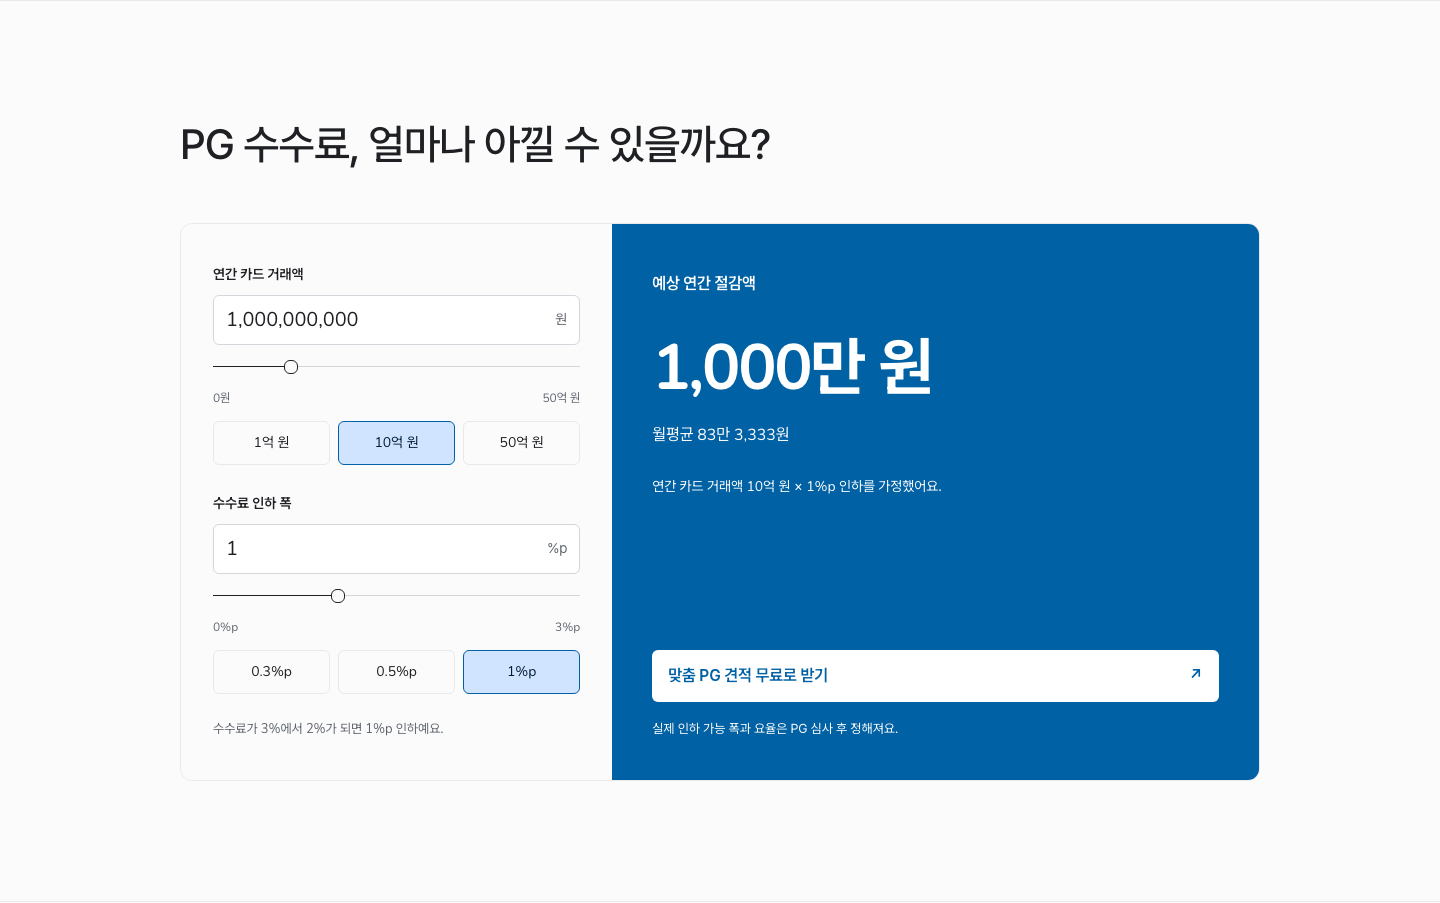
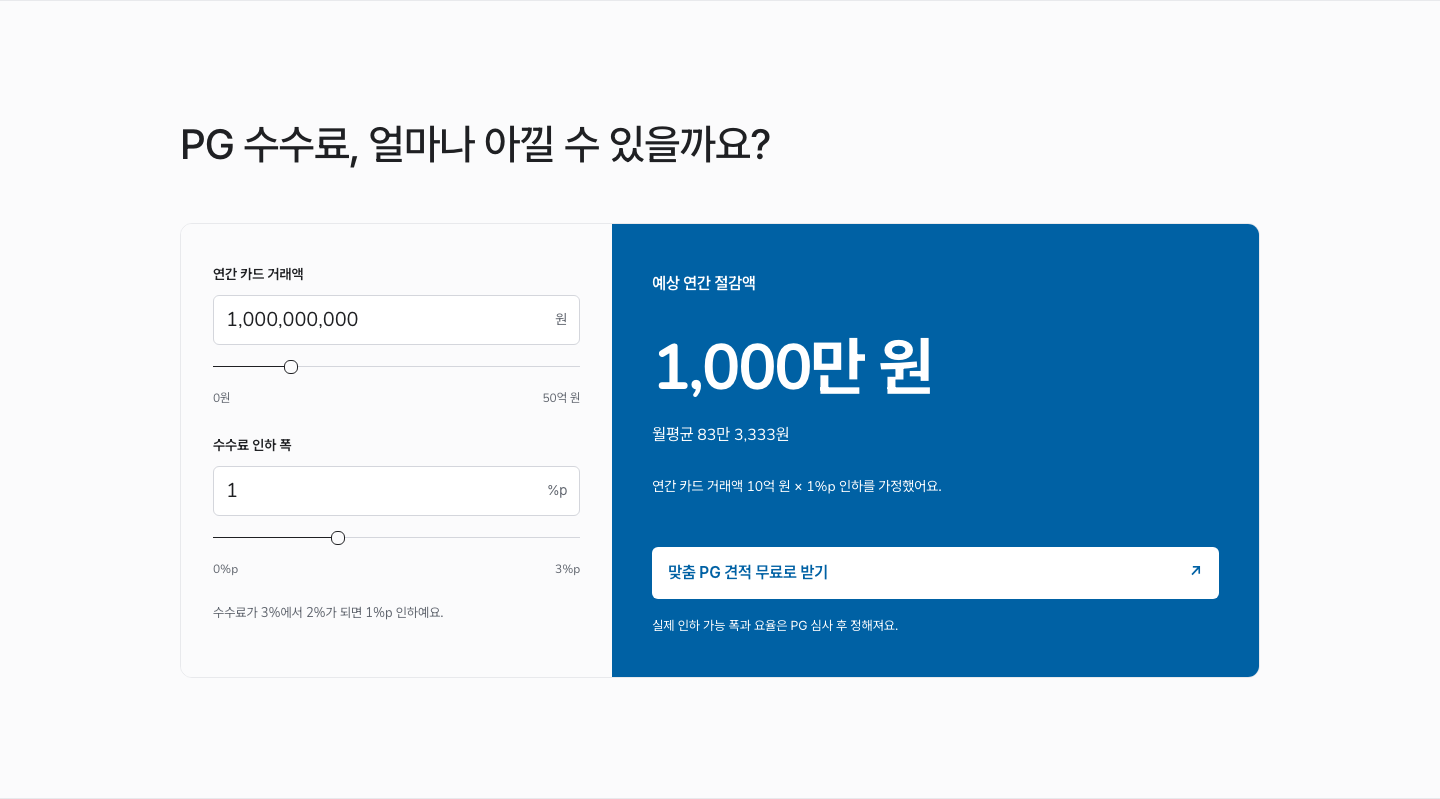
refactor: remove landing calculator quick-select buttons

diff --git a/components/landing/SavingsCalculator.tsx b/components/landing/SavingsCalculator.tsx
@@ -191,18 +191,6 @@ export function SavingsCalculator() {
           const label =
             field === "volume" ? "연간 카드 거래액" : "수수료 인하 폭";
           const numeric = Number(values[field]);
-          const presets =
-            field === "volume"
-              ? [
-                  ["100000000", "1억 원"],
-                  ["1000000000", "10억 원"],
-                  ["5000000000", "50억 원"],
-                ]
-              : [
-                  ["0.3", "0.3%p"],
-                  ["0.5", "0.5%p"],
-                  ["1", "1%p"],
-                ];
           return (
             <div key={field} className={styles.field}>
               <label htmlFor={`landing-savings-${field}`}>{label}</label>
@@ -275,20 +263,7 @@ export function SavingsCalculator() {
                     : `${bounds.reduction}%p`}
                 </span>
               </div>
-              <div className={styles.presets}>
-                {presets.map(([value, title]) => (
-                  <button
-                    key={value}
-                    type="button"
-                    aria-pressed={
-                      numeric === Number(value) && values[field] !== ""
-                    }
-                    onClick={() => change({ ...values, [field]: value })}
-                  >
-                    <span className="md-numeric">{title}</span>
-                  </button>
-                ))}
-              </div>
+
             </div>
           );
         })}

diff --git a/components/landing/__tests__/SavingsCalculator.test.tsx b/components/landing/__tests__/SavingsCalculator.test.tsx
@@ -62,8 +62,9 @@ const enter = (label: string, value: string) =>
     target: { value },
   });
 const amount = () => screen.getByLabelText("예상 연간 절감액");
-it("synchronizes presets, direct inputs and keyboard without automatic rate correction", () => {
+it("offers only direct inputs and sliders, synchronized without automatic rate correction", () => {
   render(<SavingsCalculator />);
+  expect(screen.queryAllByRole("button")).toHaveLength(0);
   enter("연간 카드 거래액", "6000000000");
   enter("수수료 인하 폭", "4.25");
   expect(amount()).toHaveTextContent("2억 5,500만 원");
@@ -73,8 +74,8 @@ it("synchronizes presets, direct inputs and keyboard without automatic rate corr
   expect(
     screen.getByRole("slider", { name: "연간 카드 거래액" }),
   ).toHaveAttribute("aria-valuemax", "6000000000");
-  fireEvent.click(screen.getByRole("button", { name: "1억 원" }));
-  fireEvent.click(screen.getByRole("button", { name: "0.3%p" }));
+  enter("연간 카드 거래액", "100000000");
+  enter("수수료 인하 폭", "0.3");
   expect(amount()).toHaveTextContent("30만 원");
   fireEvent.keyDown(screen.getByRole("slider", { name: "수수료 인하 폭" }), {
     key: "Home",

diff --git a/e2e/landing-savings.spec.ts b/e2e/landing-savings.spec.ts
@@ -37,8 +37,9 @@ test('landing calculator reflows and keeps input, pointer and keyboard results s
   }
   await page.evaluate(() => { document.documentElement.style.zoom = '1'; });
   await page.setViewportSize({ width: 1440, height: 1000 });
-  await calculator.getByRole('button', { name: '1억 원', exact: true }).click();
-  await calculator.getByRole('button', { name: '0.5%p', exact: true }).click();
+  await expect(calculator.getByRole('button')).toHaveCount(0);
+  await calculator.getByRole('textbox', { name: '연간 카드 거래액' }).fill('100000000');
+  await calculator.getByRole('textbox', { name: '수수료 인하 폭' }).fill('0.5');
   await expect(annual).toHaveText('50만 원');
   const rate = calculator.getByRole('slider', { name: '수수료 인하 폭' });
   await rate.focus(); await page.keyboard.press('Home');

diff --git a/components/landing/savings-calculator.module.css b/components/landing/savings-calculator.module.css
@@ -78,30 +78,6 @@
   font-size: 12px;
   color: var(--md-sys-color-on-surface-variant);
 }
-.presets {
-  display: flex;
-  gap: 8px;
-  margin-top: 14px;
-  flex-wrap: wrap;
-}
-.presets button {
-  flex: 1;
-  min-width: 72px;
-  min-height: 44px;
-  padding: 8px;
-  border: 1px solid var(--md-sys-color-outline-variant);
-  border-radius: 6px;
-  font-size: 14px;
-}
-.presets button:hover {
-  background: var(--md-sys-color-surface-container);
-}
-.presets button[aria-pressed="true"] {
-  background: var(--md-sys-color-primary-container);
-  color: var(--md-sys-color-on-primary-container);
-  border-color: var(--md-sys-color-primary);
-}
-.presets button:focus-visible,
 .cta:focus-visible {
   outline: 2px solid var(--md-sys-color-primary);
   outline-offset: 3px;

diff --git a/SCREEN_DESIGN.md b/SCREEN_DESIGN.md
@@ -16,7 +16,7 @@
 **확정 결정 (v0 제품 정의 — 본 절이 캐노니컬 기준)**
 - **갱신 계약의 기존 PG (2026-10-16)**: 실제 회원·공개 작성에서 계약 유형 바로 다음에 갱신 전용 필수 질문 “현재 이용 중인 PG사는 어디인가요?”를 표시한다. 검색 목록 복수 선택과 회사명 직접 입력을 지원하며 계약서상 회사명을 안내한다. 공개 목록은 가입 화면의 주요 PG만, 회원 목록은 기존 활성 PG 목록을 사용한다. 신규로 전환하면 숨기고 발송·추천에서 제외하되 초안 답변은 보존한다. 새로고침·로그인 후 이어쓰기에도 유지하며 구버전 갱신 초안은 필수 질문으로 돌아간다. 완료 요약·최종 확인·구매사 요청 조건에만 표시하고 PG에는 제공하지 않는다. 변경 시 추천·선택을 초기화하고 이전 비동기 응답을 무시한다. 기존 이용 PG와 이전 상담 PG는 업종·기본·다음 추천 및 실제 접수에서 제외한다. 후보가 없으면 입력을 유지하고 운영팀 문의를 안내한다. 이미 발송된 요청은 소급 입력하지 않는다.
 - **랜딩 채팅 문의 (2026-10-12)**: FAQ 다음·최종 도입문의 CTA 앞에 독립된 `#consultation` 섹션을 둔다. PG 수수료 협의·가입 심사 질문과 채널톡 문의 버튼을 제공하며 모바일은 세로로 배치한다.
-- **랜딩 수수료 절감 계산기 (2026-10-19)**: `#calculator` 제목은 `PG 수수료, 얼마나 아낄 수 있을까요?`다. 1024px 이상은 입력 40%·브랜드 primary 결과 60%, 그 미만은 결과 → 입력 → CTA 순서다. 연간 절감액은 PC 최대 64px·모바일 40px, 월평균을 함께 표시한다. 연간 카드 거래액·수수료 인하 폭 직접 입력을 항상 노출하고 슬라이더와 동기화한다. 기본 10억 원·1%p, 빠른 선택은 1억·10억·50억 원과 0.3·0.5·1%p다. 슬라이더 범위·입력 검증·반올림·빈 값 규칙은 아래 공개 작성 완료 계산기와 동일하며 `lib/landing/savings.ts`의 정수 기반 순수 계산만 공유한다. 등급별 가정 요율·자동 보정·비용 비교 그래프·자동 입력 가이드 커서는 사용하지 않는다. 계산 가정은 현재 입력으로 표시한다. 최초 노출 시 700ms 카운트업을 한 번 실행하고 입력 시 취소한다. 조작 중 즉시 계산하며 포인터 종료·키보드 및 직접 입력 500ms 정지 후 양의 확정 절감액이 증가할 때만 180ms scale 강조를 실행한다. 모션 감소 설정에서는 즉시 최종값, 스크린리더에는 확정 결과만 안내한다. 결과 아래 `맞춤 PG 견적 무료로 받기`는 `QuoteStartLink`로 로그인별 작성 경로를 연다. 요율 설명과 PG 심사 안내를 제공하며 값은 컴포넌트 로컬 상태로만 관리한다.
+- **랜딩 수수료 절감 계산기 (2026-10-19)**: `#calculator` 제목은 `PG 수수료, 얼마나 아낄 수 있을까요?`다. 1024px 이상은 입력 40%·브랜드 primary 결과 60%, 그 미만은 결과 → 입력 → CTA 순서다. 연간 절감액은 PC 최대 64px·모바일 40px, 월평균을 함께 표시한다. 연간 카드 거래액·수수료 인하 폭 직접 입력을 항상 노출하고 슬라이더와 동기화한다. 기본 10억 원·1%p이며 별도 빠른 선택 버튼 없이 직접 입력과 슬라이더로 조절한다. 슬라이더 범위·입력 검증·반올림·빈 값 규칙은 아래 공개 작성 완료 계산기와 동일하며 `lib/landing/savings.ts`의 정수 기반 순수 계산만 공유한다. 등급별 가정 요율·자동 보정·비용 비교 그래프·자동 입력 가이드 커서는 사용하지 않는다. 계산 가정은 현재 입력으로 표시한다. 최초 노출 시 700ms 카운트업을 한 번 실행하고 입력 시 취소한다. 조작 중 즉시 계산하며 포인터 종료·키보드 및 직접 입력 500ms 정지 후 양의 확정 절감액이 증가할 때만 180ms scale 강조를 실행한다. 모션 감소 설정에서는 즉시 최종값, 스크린리더에는 확정 결과만 안내한다. 결과 아래 `맞춤 PG 견적 무료로 받기`는 `QuoteStartLink`로 로그인별 작성 경로를 연다. 요율 설명과 PG 심사 안내를 제공하며 값은 컴포넌트 로컬 상태로만 관리한다.
 - **공개 작성 완료 계산기 (확정 결정 2026-10-15)**: `/quote-start` 완료 영역은 제목 `PG 수수료, 얼마나 아낄 수 있을까요?` → 연간 절감 예상·절감액·월평균 → 계산 가정 → 슬라이더 → 요율 설명·심사 안내 → 로그인·가입 버튼 → 답변 요약 순서다. 브라우저 보관 안내 문구는 표시하지 않는다. 신규·갱신 모두 연간 카드 거래액 10억 원·수수료 인하 폭 1%p로 시작해 연간 1,000만 원·월평균 83만 3,333원을 표시한다. 거래액 슬라이더는 0~50억 원·1,000만 원 간격, 인하 폭은 0~3%p·0.1%p 간격이다. 오른쪽 현재 값을 클릭·키보드 활성화하면 박스형 직접 입력을 제공한다. 거래액은 음수 없는 원 단위 안전한 정수, 인하 폭은 0~100%p·소수 둘째 자리까지다. 직접 입력이 상한을 넘으면 슬라이더 상한과 끝 눈금을 확장하고 드래그 중에는 범위를 고정한다. 연간 절감액은 거래액×인하 폭÷100, 월평균은 이를 12로 나누어 각각 원 단위 반올림한다. 빈 값은 `—`, 0은 `0원`이다. `연간 거래액 10억 원 · 1%p 인하를 가정했어요.`는 현재 입력에 맞춰 갱신하며 PoC·평균·추천 수치로 표현하지 않는다. `수수료가 3%에서 2%가 되면 1%p 인하예요.`와 `실제 인하 가능 폭과 요율은 PG 심사 후 정해져요.`를 표시한다. 최초 노출 700ms 카운트업·1.5초 폭죽, 확정값 증가 시 600ms 작은 폭죽은 DESIGN.md §9의 계산기 예외를 따른다. 직접 입력·키보드는 500ms 정지 후, 드래그는 종료 시 확정하고 소형 폭죽 최소 간격은 2초다. 드래그 중에는 숫자만 즉시 갱신한다. 입력·이탈은 기존 연출을 취소하고 모션 감소 시 즉시 최종값을 표시하며 확정값만 라이브 리전으로 안내한다. 계산기 상태는 초안과 분리하여 답변 수정·복귀 시 유지하고 큰 연출은 반복하지 않는다. 44px 조작 영역·숫자 서체·primary 포커스를 사용하며 좁은 화면·확대에서도 잘리지 않도록 배치한다.
 - **로그인 전 견적 작성 (확정 결정 2026-10-11)**: 구매사 랜딩 비로그인 CTA → 홈페이지부터 기존 질문·신규/갱신 분기 → 첨부 원본 브라우저 저장 → 로그인/가입 → 이메일 인증·승인 → 초안 선택·복원 → 사업자 확인 → PG 추천 → 최종 요청. 로그인된 구매사 CTA는 기존 작성 화면을 연다. 로그인 전에는 사업자 확인을 요구하지 않는다. 가입 버튼을 누르면 답변·첨부 원본을 서버에 저장한 뒤 가입 화면을 연다. 실패 시 입력을 유지하고 실패한 파일은 가입 재시도 또는 내용 수정에서 제거할 수 있다. 가입과 초안 소유권·입점 심사 연결은 원자적으로 처리한다. 서버 미가입 초안은 마지막 저장 후 24시간, 계정 연결본은 요청 완료·직접 삭제·계정 탈퇴까지 보관한다(2026-10-16 결정). 승인 후 같은 계정·워크스페이스는 다른 기기에서도 이어 쓰며, 서버 초안·기존 회원 초안·다른 로컬 초안을 구분해 고른다. 같은 초안의 로컬 사본은 중복 표시하지 않고 서버 선택 후 정리한다. 최초 초안 선택 후 자동 복귀를 소비하고 홈에 이어쓰기 링크를 둔다. 수정은 revision을 확인해 서버에 저장하며 실패 시 재시도를 제공한다. 기존 브라우저 전용 초안은 24시간 로컬 정리를 유지한다. 세부 보관·배포 정책은 docs/GUEST_RFP_INTAKE.md를 따른다. 회원 초안과 공개 초안은 별도로 보존하고, 복원 시 계정·워크스페이스를 고정한다. 실패한 첨부는 재시도·제거하기 전까지 발송을 막는다. 삭제된 업종 등 필수 답변이 무효하면 해당 질문으로 돌아간다. 실제 요청은 자동 발송하지 않는다. 공개 작성은 1024px 이상에서 최대 1200px 안에 왼쪽 안내 280px과 오른쪽 질문 영역을 나란히 둔다. 왼쪽에는 제목 `우리 사업에 맞는 PG 견적을 받아요`와 설명 `사업 정보를 입력하면 업종에 맞는 PG사를 추천해요.`만 표시한다. 1024px 미만은 최대 608px·좌우 20px 여백의 한 열로 같은 제목·설명 다음에 질문을 둔다. 로그인·사업자 확인 설명, 요청 순서, 운영팀 전달·브라우저 보관 고지, 추가 설명·펼침 메뉴와 안내 구분선은 제거하고 다른 위치로 옮기지 않는다(2026-10-14 사용자 결정, 기존 고지 상시 노출 규칙 대체). 완료·계정 연결·오류도 같은 작업 영역에 표시한다. 공개 입력은 얇은 테두리·6px 모서리·최소 44px 높이로 통일하며 중복 가시 라벨과 완료 표시는 감추고 접근성 이름·도움말은 유지한다. 결제수단은 브랜드·이름·우측 체크, 계약 유형은 동일 크기 설명 카드로 표시한다. 업종 카테고리에는 이동 화살표를 붙이고 검색창 아래 현재 선택을 유지한다. 금액·기간은 숫자와 단위를 묶고 기간은 일·주·개월로 표시하되 저장 형식은 유지한다. 배송·서비스 기간과 갱신 정산주기 질문의 용어 설명(ⓘ)은 입력란 아래 별도 줄 없이 질문 제목 오른쪽에 두며, 제목 밖 형제 요소라 제목의 접근성 이름은 질문 문장 그대로다. ⓘ 는 제목 끝 줄의 세로 가운데에 두고 제목이 줄 끝까지 차도 혼자 다음 줄로 떨어지지 않으며, 레이아웃을 바꾸지 않는 44px 터치 영역을 갖는다(2026-10-19). 첨부는 종류·이름·크기·제거와 파일별 실패 안내·재시도를 제공하며 원본 유실 시 제거 후 재선택을 안내한다. 완료 화면은 홈페이지·업종·계약 유형 요약과 개별 수정을 제공한다. 개별 수정은 임시 store에서 진행하고 취소 시 원본을 유지한다. 수정 완료 시 전체 필수 검증·추가 필수 질문·저장 성공을 거친 뒤 실제 초안을 갱신하고 완료 요약으로 복귀하며 실패 시 편집값을 보존한다. 개별 수정은 완료 운영 이벤트를 재전송하지 않는다. 로그인·가입의 행동 위계와 나머지 답변의 전체 수정 흐름은 유지한다(2026-10-15 전체 UI 개선). 모바일 이동 버튼은 안전 영역을 확보한 하단 고정 바로 제공하고 건너뛰기는 그 위의 보조 행동이다. 500px 이하 높이의 작은 창에서는 이동 버튼을 일반 흐름으로 돌려 입력 공간을 확보한다. 데스크탑은 입력 아래 이전·건너뛰기·다음을 배치한다. 공개 작성의 운영 솔루션 선택지는 PC 3열·모바일 2열을 유지하고 `[로고] 서비스 이름 [체크]` 가로형으로 표시한다. 로고 영역은 32px, 이름은 16px, 카드 최소 높이는 PC 64px·모바일 56px, 모서리는 6px이다. 카페24·아임웹·메이크샵·고도몰은 공식 로컬 자산의 비율·색을 보존하고 자체 개발은 코드 아이콘, 기타는 더보기 아이콘을 쓴다. 자산 출처는 `public/images/solution-logos/SOURCES.md`에 기록하며 이름은 항상 표시한다. 선택 상태는 파란 테두리·옅은 배경·체크를 함께 쓰고 체크 공간을 항상 예약해 내용 위치를 유지한다. 키보드 포커스는 별도 링으로 표시한다. 진행 막대와 제목은 PC 32px·모바일 24px, 제목 영역과 답변은 20px, 데스크톱 답변과 이동 버튼은 32px 간격이다(2026-10-15 공개 작성 UI 개선). 회원·데모·튜토리얼은 기존 텍스트 선택지를 유지하고 선택·재클릭 해제·기타 입력·건너뛰기·복원 동작은 그대로다. 선택만으로 이동하지 않고 다음 버튼으로 진행한다. 떠 있는 채널톡 버튼은 감추고 상단 문의하기에서 상담을 연다(2026-10-14 승인 시안 반영). 1024px 미만 터치 영역은 최소 44px이다. 질문 위에는 영역·현재/전체 개수·진행 막대와 선택 Chip을 표시하고 신규 14문항·갱신 20문항을 실제 배열에서 계산한다. 선택 질문의 `지금은 건너뛰어요`는 입력·첨부를 보존하며 마지막 질문은 전체 검증과 원본 저장 확인을 거친다. 첫 이동은 `홈으로`, 완료는 `작성 마치기`이고 처리 중 `저장 중…`으로 중복 실행을 막는다. 저장 실패 안내와 재시도는 유지하며, 일반 저장 상태 문구와 `초안 관리` 삭제 영역은 표시하지 않는다(2026-10-14 사용자 결정). 홈페이지 첫 비공백 입력에서 운영 Slack 작성 시작 알림을 보내고, 단순 방문·포커스·복원에는 보내지 않는다. Clarity 세션을 확보하면 재생 링크를 함께 전달하며 초안별 중복을 억제한다(2026-10-14 사용자 요청).
 - **선정 후 공통 장기합의서 (확정 결정 2026-09-20)**: 신규 발송은 PG의 PDF 업로드·자유 조항 편집 대신 공통 장기계약 부속합의서를 쓴다. PG가 양측 상호·사업자번호·주소·대표자를 채우고, 선정 견적에서 고정한 최종 수수료와 관리자 PG별 표준 수수료·할인 폭을 확인한 뒤 양측에 직접 서명을 요청한다. 구매사 승인 단계는 없다. 2년 약정·독점 이용·위반 시 할인액 반환 문안은 공통 고정이다. 아래 기존 PDF·템플릿 표면의 기술 설명은 전환 전 계약의 레거시 명세이며, 신규 계약의 화면은 P10/B8을 따른다. 배포·복구 규칙은 `docs/LONG_TERM_AGREEMENT_ROLLOUT.md`에 있다.

diff --git a/CHANGELOG.md b/CHANGELOG.md
@@ -6,7 +6,7 @@ All notable changes to this project will be documented in this file.
 
 ### Changed
 
-- 랜딩에서 연간 카드 거래액과 수수료 인하 폭을 직접 입력하거나 슬라이더·빠른 선택으로 조절해 연간·월평균 절감액을 확인할 수 있어요.
+- 랜딩에서 연간 카드 거래액과 수수료 인하 폭을 직접 입력하거나 슬라이더로 조절해 연간·월평균 절감액을 확인할 수 있어요.
 - 예상 절감액과 무료 견적 시작 버튼을 함께 보여주고, 모바일에서는 결과부터 확인할 수 있도록 배치했어요. 자동 입력 시연과 등급별 가정 요율은 제거했어요.
 
 ## [0.39.5.4] - 2026-10-19
